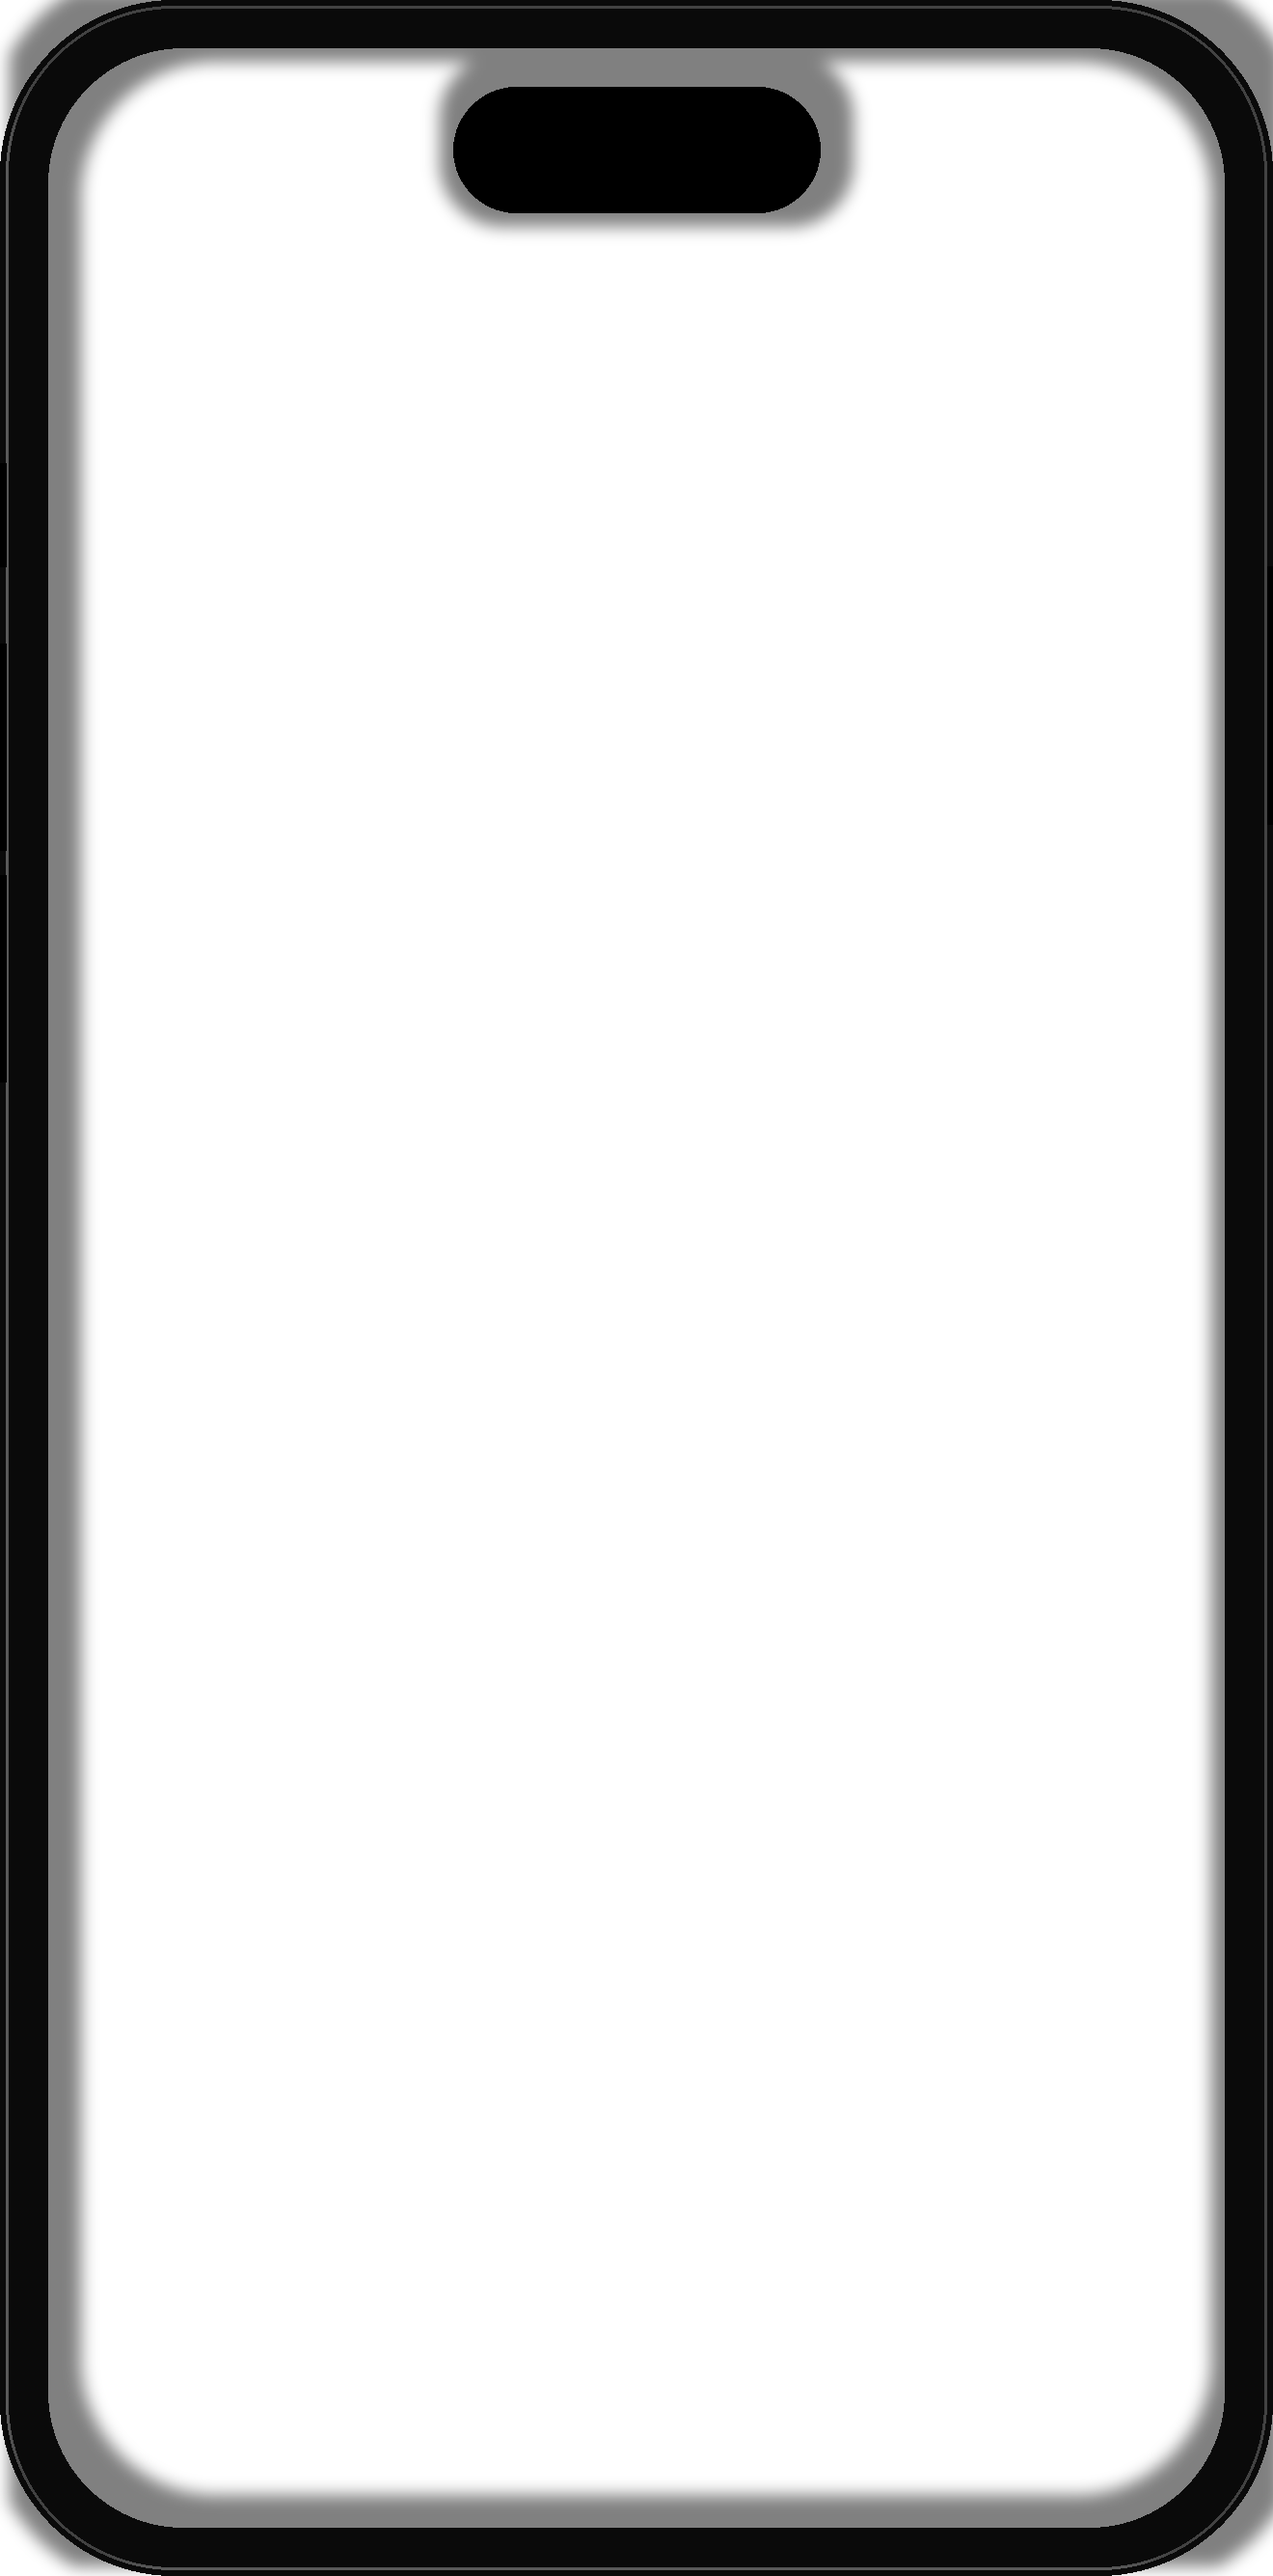
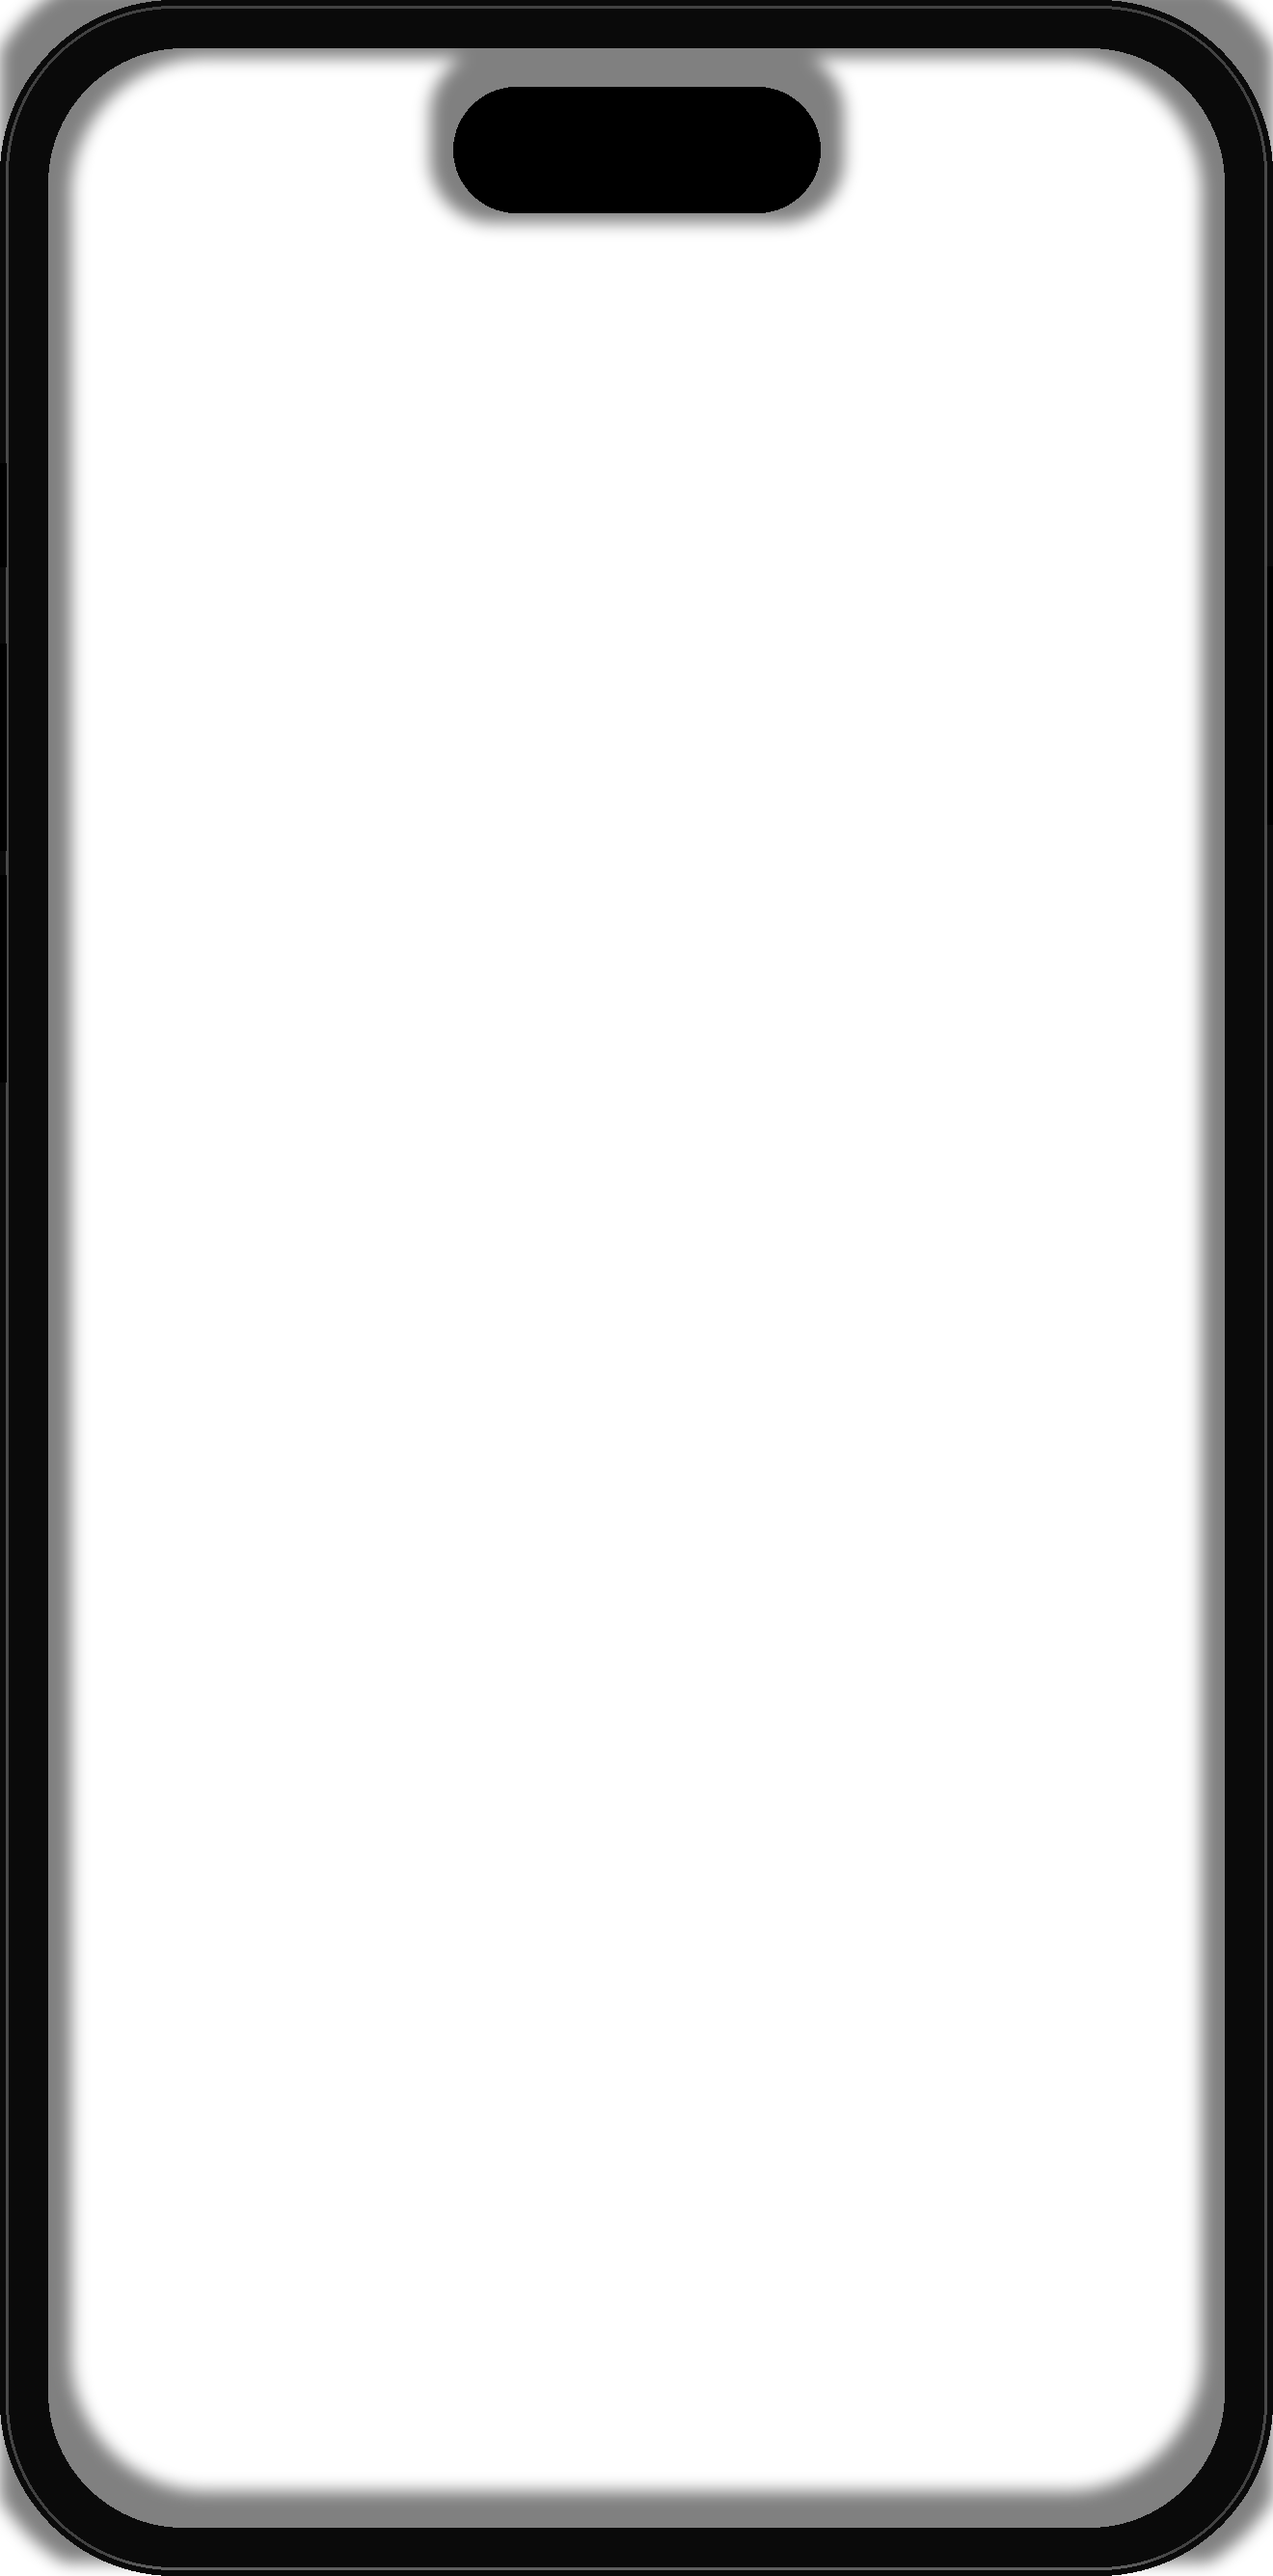
mockup: SHADOW static angle 135→180 (default state 일치)

diff --git a/web/src/pages/Mockup.tsx b/web/src/pages/Mockup.tsx
@@ -1565,7 +1565,7 @@ export default function Mockup() {
                 const shadowOnly = deviceShadowId !== 'none'
                   && deviceStyleId === 'default' && radiusOverride == null
                   && Math.abs(deviceShadowOpacity - 1.0) < 0.01
-                  && deviceShadowAngle === 135
+                  && deviceShadowAngle === 180
                 const radiusOnly = radiusOverride != null
                   && deviceStyleId === 'default' && deviceShadowId === 'none'
                 let url: string

diff --git a/_generate_static_main_previews.py b/_generate_static_main_previews.py
@@ -42,7 +42,7 @@ def main() -> int:
             continue
         # render_device_frame + add_device_shadow
         frame = svc.render_device_frame(DEVICE)
-        png = svc.add_device_shadow(frame, sid, opacity=1.0, angle_deg=135)
+        png = svc.add_device_shadow(frame, sid, opacity=1.0, angle_deg=180)
         save(f"{DEVICE}-shadow-{sid}", png)
 
     # RADIUS 변형
